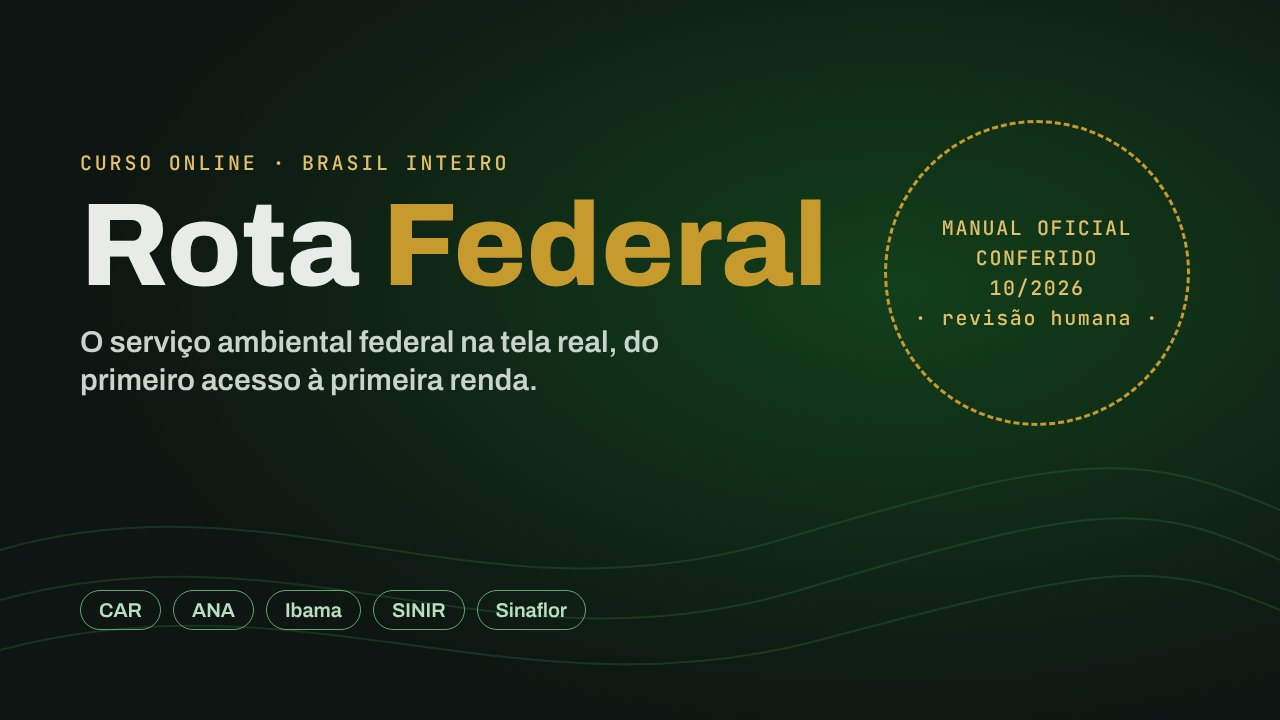
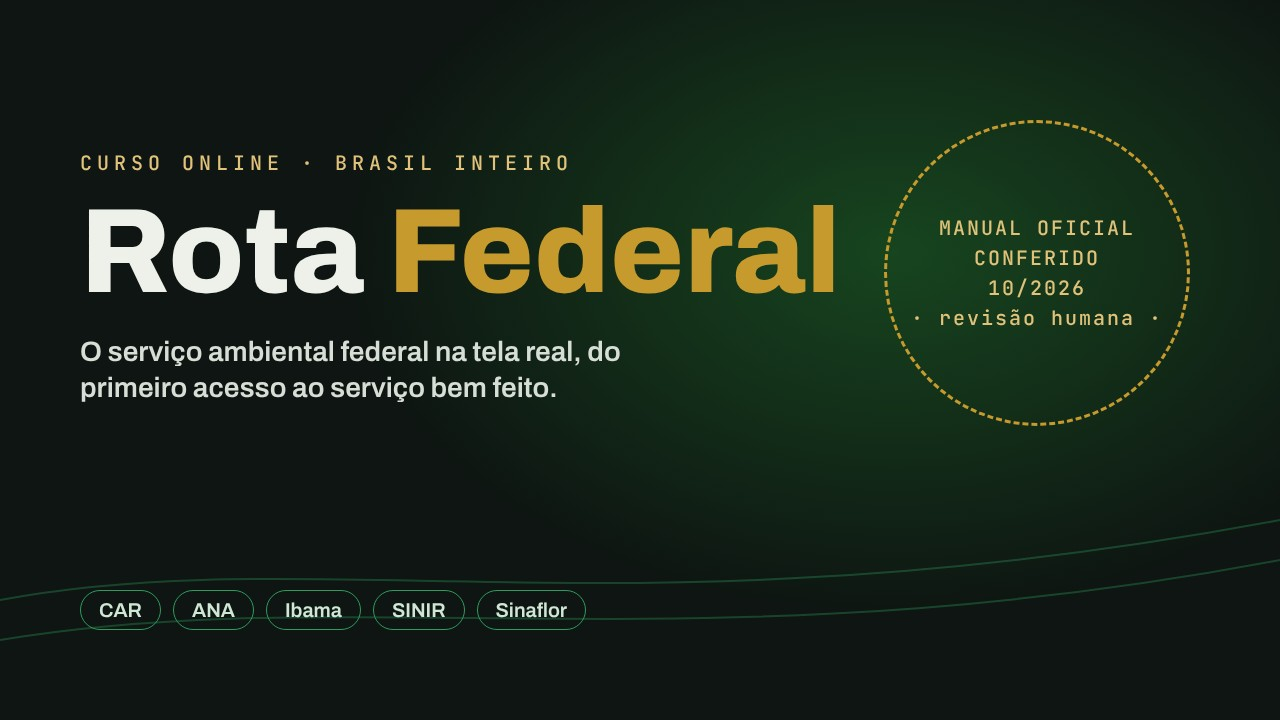
Curadoria do tom: sem vínculo de cargo nos textos e sem apelo de renda
- Sobre, Rota Ambiental e Rota Federal: "atua com meio ambiente em Minas Gerais desde 2014" no lugar de gestor de carreira, SEMAD-MG e FEAM; sai a seção de imprensa.
- Página inicial e páginas dos cursos: "gere renda" e "começar a ter renda" viram serviço feito com segurança; a trilha "Fazer render" vira "Atuar como consultor".
- Sem urgência de preço ("por tempo limitado").
- Capas novas da Rota Ambiental e da Rota Federal, sem "renda".

Claude-Session: https://claude.ai/code/session_011pCDnWDXmFgZjyX7zguf5X

diff --git a/sobre.html b/sobre.html
@@ -4,12 +4,12 @@
 <meta charset="utf-8">
 <meta name="viewport" content="width=device-width, initial-scale=1">
 <title>Sobre — Francisco de Assis, O Analista Ambiental</title>
-<meta name="description" content="Francisco de Assis da Silva Júnior: engenheiro florestal, gestor ambiental de carreira em Minas Gerais e autor de quatro livros. Biografia, imprensa, formação, livros e capacitações.">
+<meta name="description" content="Francisco de Assis da Silva Júnior: engenheiro florestal, profissional da área ambiental em Minas Gerais desde 2014 e autor de quatro livros. Biografia, formação, livros e capacitações.">
 <meta name="author" content="Francisco de Assis da Silva Júnior">
 <link rel="canonical" href="https://www.oanalistaambiental.com/sobre.html">
 <meta property="og:type" content="website">
 <meta property="og:title" content="Sobre — Francisco de Assis, O Analista Ambiental">
-<meta property="og:description" content="Francisco de Assis da Silva Júnior: engenheiro florestal, gestor ambiental de carreira em Minas Gerais e autor de quatro livros. Biografia, imprensa, formação, livros e capacitações.">
+<meta property="og:description" content="Francisco de Assis da Silva Júnior: engenheiro florestal, profissional da área ambiental em Minas Gerais desde 2014 e autor de quatro livros. Biografia, formação, livros e capacitações.">
 <meta property="og:url" content="https://www.oanalistaambiental.com/sobre.html">
 <meta property="og:image" content="https://www.oanalistaambiental.com/assets/hero-banner.jpg">
 <meta property="og:locale" content="pt_BR">
@@ -27,7 +27,7 @@
   "alternateName":"O Analista Ambiental",
   "url":"https://www.oanalistaambiental.com/sobre.html",
   "email":"contato@oanalistaambiental.com",
-  "jobTitle":"Engenheiro Florestal e Gestor Ambiental",
+  "jobTitle":"Engenheiro Florestal",
   "address":{"@type":"PostalAddress","addressLocality":"Belo Horizonte","addressRegion":"MG","addressCountry":"BR"},
   "sameAs":[
     "https://www.linkedin.com/in/oanalistaambiental",
@@ -92,17 +92,16 @@
     <p class="ref">Belo Horizonte &middot; Minas Gerais</p>
     <h1>Francisco de Assis, <em>O Analista Ambiental</em>.</h1>
     <p class="hero__lede">
-      Licenciamento, regularização e fiscalização explicados por quem analisa
-      processo, vai a campo e ensina.
+      Licenciamento e regularização ambiental explicados com calma e com a fonte na mão, por quem trabalha com meio ambiente em Minas Gerais, vai a campo e ensina.
     </p>
     <dl class="quadro quadro--3">
       <div>
-        <dt>Serviço público</dt>
-        <dd>2014<small>gestor ambiental de carreira na SEMAD-MG, credenciado para fiscalização</small></dd>
+        <dt>Experiência</dt>
+        <dd>2014<small>atuando com meio ambiente em Minas Gerais</small></dd>
       </div>
       <div>
         <dt>Campo</dt>
-        <dd>1.500+<small>perícias e vistorias, inclusive para o Ministério Público e o Judiciário</small></dd>
+        <dd>1.500+<small>perícias e vistorias de campo</small></dd>
       </div>
       <div>
         <dt>Autoria</dt>
@@ -115,7 +114,7 @@
 <section id="sobre">
   <div class="wrap stack">
     <p class="ref">Quem escreve</p>
-    <h2>Um analista que atravessou os dois lados do balcão.</h2>
+    <h2>Um profissional que gosta de explicar o caminho.</h2>
     <div class="prose">
       <p>
         Sou <strong>Francisco de Assis da Silva Júnior</strong> — engenheiro florestal formado
@@ -123,14 +122,12 @@
         onde pesquiso modelagem preditiva de desmatamento com inteligência artificial.
       </p>
       <p>
-        Desde 2014 sou <strong>gestor ambiental de carreira</strong> do sistema estadual de meio
-        ambiente de Minas Gerais — hoje na FEAM —, credenciado para fiscalização
-        ambiental: autos de infração, embargos, suspensão de atividades. Nesse caminho vieram mais
-        de 1.500 perícias e vistorias — várias delas a pedido do Ministério Público e do Poder
-        Judiciário — e centenas de processos de licenciamento analisados linha a linha.
+        Desde 2014 <strong>trabalho com meio ambiente em Minas Gerais</strong>: licenciamento,
+        regularização, flora, água e campo. Nesse caminho vieram mais de 1.500 perícias e vistorias
+        e centenas de processos de licenciamento estudados linha a linha.
       </p>
       <p>
-        Fora da mesa de análise: presido a Comissão de Fiscalização Ambiental do IDAM, o Instituto
+        Também presido a Comissão de Fiscalização Ambiental do IDAM, o Instituto
         de Direito Ambiental; sou pesquisador colaborador na UFVJM; e fui facilitador do Programa de
         Desenvolvimento de Lideranças Regionais na Fundação João Pinheiro.
       </p>
@@ -139,43 +136,6 @@
         não porque é complexa, mas porque quase ninguém se dá ao trabalho de explicar. É isso que
         eu faço aqui.
       </p>
-    </div>
-  </div>
-</section>
-
-<section id="imprensa" class="band on-dark">
-  <div class="wrap">
-    <p class="ref">Na imprensa</p>
-    <h2 style="margin-top:.9rem;max-width:20ch">Quando a pauta ambiental de Minas vira notícia.</h2>
-    <div class="quote">
-      <blockquote>“As florestas de Minas Gerais não estão sendo protegidas.”</blockquote>
-      <cite>Brasil de Fato &middot; janeiro de 2026</cite>
-    </div>
-    <div class="imprensa">
-      <a class="clip" href="https://www.brasildefato.com.br/2026/01/08/as-florestas-de-mg-nao-estao-sendo-protegidas-diz-gestor-ambiental-sobre-politica-de-zema/" target="_blank" rel="noopener">
-        <span class="clip__src">Brasil de Fato<b>08 jan 2026</b></span>
-        <span>
-          <h3>“As florestas de MG não estão sendo protegidas”, diz gestor ambiental sobre política de Zema</h3>
-          <p>Entrevista sobre desmatamento, queimadas, flexibilização do licenciamento e o efetivo técnico do sistema ambiental mineiro.</p>
-        </span>
-        <span class="clip__go">Ler &rarr;</span>
-      </a>
-      <a class="clip" href="https://www.otempo.com.br/cidades/2025/8/4/flexibilizacao-no-licenciamento-ambiental-em-mg-ameaca-cordilheira-do-espinhaco" target="_blank" rel="noopener">
-        <span class="clip__src">O Tempo<b>04 ago 2025</b></span>
-        <span>
-          <h3>Flexibilização no licenciamento ambiental em MG ameaça a Cordilheira do Espinhaço</h3>
-          <p>Análise sobre o licenciamento simplificado e o que muda quando um processo passa a ser avaliado por um único técnico.</p>
-        </span>
-        <span class="clip__go">Ler &rarr;</span>
-      </a>
-      <a class="clip" href="https://www.brasildefato.com.br/2026/06/03/semana-mundial-do-meio-ambiente-quem-paga-a-conta-da-crise-ambiental-em-minas-gerais/" target="_blank" rel="noopener">
-        <span class="clip__src">Brasil de Fato<b>03 jun 2026</b></span>
-        <span>
-          <h3>Semana mundial do meio ambiente: quem paga a conta da crise ambiental em Minas Gerais?</h3>
-          <p>Reportagem especial sobre emergência climática e política ambiental no estado.</p>
-        </span>
-        <span class="clip__go">Ler &rarr;</span>
-      </a>
     </div>
   </div>
 </section>
@@ -211,7 +171,7 @@
       <div>
         <h3>Atuação institucional</h3>
         <ul>
-          <li><b>SISEMA / FEAM</b> — gestor ambiental de carreira, credenciado para fiscalização desde 2014</li>
+          <li><b>Meio ambiente em Minas Gerais</b> — atuação profissional desde 2014</li>
           <li><b>IDAM</b> — presidente da Comissão de Fiscalização Ambiental</li>
           <li><b>UFVJM</b> — pesquisador colaborador</li>
         </ul>

diff --git a/rota-ambiental.html b/rota-ambiental.html
@@ -204,7 +204,7 @@
         <div class="rv-card"><h3>Ofereça o serviço certo</h3><p>Por formação (agrônomo, florestal, civil, geólogo, gestor): renovação, condicionante, PTRF, CAR, DAURH e outorga. Com mensagem-modelo educativa e regras de LGPD.</p></div>
       </div>
       <ul class="rv-lista">
-        <li>6 aulas curtas na Trilha 8, "Fazer render".</li>
+        <li>6 aulas curtas na Trilha 8, "Atuar como consultor".</li>
         <li>Kit bônus: links por município, planilha-modelo, 5 prompts de IA e o mapa formação × serviço.</li>
         <li>Atualização dos números todo mês na comunidade.</li>
       </ul>
@@ -220,9 +220,9 @@
   <section class="rv-sec rv-revela" id="trilhas">
     <div class="wrap stack">
       <p class="ref">As trilhas</p>
-      <h2>Dez trilhas, do primeiro acesso ao serviço que gera renda.</h2>
+      <h2>Dez trilhas, do primeiro acesso ao serviço bem feito.</h2>
       <div class="rv-grid">
-        <div class="rv-card rv-trilha"><img src="assets/rota/medalha_0.png" alt="" width="64" height="64"><div><h3>0 · Comece por aqui</h3><ul><li>Mapa dos serviços e da renda do consultor em MG</li><li>O celular como ferramenta de campo, com o app Chão Geo MG</li></ul></div></div>
+        <div class="rv-card rv-trilha"><img src="assets/rota/medalha_0.png" alt="" width="64" height="64"><div><h3>0 · Comece por aqui</h3><ul><li>Mapa dos serviços ambientais em MG e de quem pode fazer cada um</li><li>O celular como ferramenta de campo, com o app Chão Geo MG</li></ul></div></div>
         <div class="rv-card rv-trilha"><img src="assets/rota/medalha_1.png" alt="" width="64" height="64"><div><h3>1 · Órgãos e sistemas</h3><ul><li>Quem faz o quê no Sisema</li><li>Consultar decisões, pareceres e autos de infração</li><li>SEI: protocolo e acompanhamento</li></ul></div></div>
         <div class="rv-card rv-trilha"><img src="assets/rota/medalha_2.png" alt="" width="64" height="64"><div><h3>2 · Geo</h3><ul><li>KML, SHP e SIRGAS 2000: o que o órgão confere</li><li>Camadas do IDE-Sisema e critério locacional</li></ul></div></div>
         <div class="rv-card rv-trilha"><img src="assets/rota/medalha_3.png" alt="" width="64" height="64"><div><h3>3 · CAR</h3><ul><li>Inscrição, retificação e troca de titular</li><li>Responder à notificação da análise</li></ul></div></div>
@@ -230,7 +230,7 @@
         <div class="rv-card rv-trilha"><img src="assets/rota/medalha_5.png" alt="" width="64" height="64"><div><h3>5 · Água <span class="rv-tag rv-tag--pronta">1ª aula gravada</span></h3><ul><li>Pedido de outorga no SOUT, com casos reais</li><li>Uso insignificante, poço e barramento</li></ul></div></div>
         <div class="rv-card rv-trilha"><img src="assets/rota/medalha_6.png" alt="" width="64" height="64"><div><h3>6 · Flora</h3><ul><li>Árvores isoladas, taxa e reposição</li><li>CAP/DAP e volumetria, com planilha</li><li>Sinaflor, DOF e supressão</li></ul></div></div>
         <div class="rv-card rv-trilha"><img src="assets/rota/medalha_7.png" alt="" width="64" height="64"><div><h3>7 · Direito ambiental aplicado</h3><ul><li>Defesa administrativa e recurso</li><li>Responsabilidade penal, civil e administrativa</li></ul></div></div>
-        <div class="rv-card rv-trilha"><img src="assets/rota/medalha_8.png" alt="" width="64" height="64"><div><h3>8 · Fazer render</h3><ul><li>Quanto cobrar, proposta e contrato</li><li>Achar cliente e serviço recorrente</li><li>Radar de serviços: certidões, outorgas, licenças e Reserva Legal na sua região <span class="rv-tag rv-tag--pronta">novo</span></li></ul></div></div>
+        <div class="rv-card rv-trilha"><img src="assets/rota/medalha_8.png" alt="" width="64" height="64"><div><h3>8 · Atuar como consultor</h3><ul><li>Proposta, contrato e preço justo</li><li>Onde o seu trabalho é necessário</li><li>Radar de serviços: certidões, outorgas, licenças e Reserva Legal na sua região <span class="rv-tag rv-tag--pronta">novo</span></li></ul></div></div>
         <div class="rv-card rv-trilha"><img src="assets/rota/medalha_9.png" alt="" width="64" height="64"><div><h3>9 · Federal</h3><ul><li>CTF/AIDA, CTF/APP, RAPP e TCFA no Ibama</li><li>ANA e MTR no SINIR: serve para todo o Brasil</li></ul></div></div>
       </div>
       <p style="color:var(--text-faint);font-size:.95rem">Grade em produção: as aulas entram trilha por trilha, e a ordem pode mudar conforme as normas e os sistemas.</p>
@@ -278,10 +278,10 @@
         <div class="stack-sm">
           <h2>Francisco de Assis · O Analista Ambiental</h2>
           <p>Engenheiro florestal (UESB), mestre em Tecnologia, Ambiente e Sociedade (UFVJM) e doutorando na UFMG, onde pesquisa modelagem preditiva de desmatamento com inteligência artificial.</p>
-          <p>Gestor ambiental de carreira do sistema estadual de meio ambiente de Minas Gerais desde 2014, com centenas de processos de licenciamento analisados linha a linha e mais de 1.500 perícias e vistorias. Preside a Comissão de Fiscalização Ambiental do IDAM (Instituto de Direito Ambiental).</p>
+          <p>Atua com meio ambiente em Minas Gerais desde 2014, com centenas de processos de licenciamento estudados linha a linha e mais de 1.500 perícias e vistorias. Preside a Comissão de Fiscalização Ambiental do IDAM (Instituto de Direito Ambiental).</p>
           <p>O Analista Ambiental nasceu de uma percepção simples: a área ambiental é difícil não porque é complexa, mas porque quase ninguém se dá ao trabalho de explicar. A Rota Ambiental é esse trabalho, aula por aula. <a href="sobre.html">Trajetória completa</a>.</p>
           <div class="rv-num">
-            <div><b data-conta="12" data-suf=" anos">12 anos</b><span>no sistema estadual de MG (desde 2014)</span></div>
+            <div><b data-conta="12" data-suf=" anos">12 anos</b><span>na área ambiental em MG (desde 2014)</span></div>
             <div><b data-conta="1500" data-mais="1">1.500+</b><span>perícias e vistorias</span></div>
             <div><b data-conta="10">10</b><span>trilhas no curso</span></div>
             <div><b data-conta="40" data-suf=" h">40 h</b><span>de certificado</span></div>
@@ -332,7 +332,7 @@
   <section class="rv-sec rv-revela" id="lista">
     <div class="wrap stack-sm">
       <p class="ref">Lista de espera</p>
-      <h2>Receba a data de abertura e o valor de fundador.</h2>
+      <h2>Entre na lista e receba o aviso da abertura.</h2>
       <div class="lista" data-lista data-padrao="rota"></div>
     </div>
   </section>

diff --git a/rota-federal.html b/rota-federal.html
@@ -151,7 +151,7 @@
 .rf-de{text-decoration:line-through;color:#8FA195;font-size:.95rem;margin-right:.4rem}
 </style>
 
-<div class="rv-aviso" role="note">TURMA FUNDADORA · Aulas novas toda semana · Preço de fundador por tempo limitado</div>
+<div class="rv-aviso" role="note">TURMA FUNDADORA · Aulas novas toda semana · Conteúdo revisado e com fonte em cada regra</div>
 
 <section class="rv-hero">
   <div class="wrap">
@@ -159,9 +159,9 @@
       <p class="ref">Curso online · Brasil inteiro</p>
       <h1>Rota <span>Federal</span></h1>
       <p class="rv-sub">O serviço ambiental federal na tela real dos sistemas: CAR, outorga na ANA, Ibama, SINIR e Sinaflor. Vale em qualquer estado.</p>
-      <p class="rv-sub" style="font-size:1.02rem">Para o profissional da área ambiental que quer aprender a fazer no sistema e começar a ter renda com isso.</p>
+      <p class="rv-sub" style="font-size:1.02rem">Para o profissional da área ambiental que quer fazer o serviço federal com segurança, do jeito que o sistema pede.</p>
       <div class="rv-ctas">
-        <a class="btn rv-btn-ouro" href="#oferta" data-checkout>Garantir o preço de fundador</a>
+        <a class="btn rv-btn-ouro" href="#oferta" data-checkout>Ver as ofertas</a>
         <a class="btn btn--ghost" href="#modulos">Ver os módulos</a>
       </div>
     </div>
@@ -211,7 +211,7 @@
         <div class="rv-card"><h3>4 · Flora federal</h3><ul class="rv-lista"><li>Sinaflor e DOF: emissor, receptor e saldo</li><li>Registro de motosserra</li></ul></div>
         <div class="rv-card"><h3>5 · Resíduos no SINIR</h3><ul class="rv-lista"><li>MTR, CDF e DMR</li><li>O login gov.br novo e os perfis</li></ul></div>
         <div class="rv-card"><h3>6 · Licenciamento federal</h3><ul class="rv-lista"><li>Quando é do Ibama e como acompanhar</li><li>O que mudou com a Lei Geral do Licenciamento (Lei 15.190/2025)</li></ul></div>
-        <div class="rv-card"><h3>7 · Fazer render</h3><ul class="rv-lista"><li>Quanto cobrar, proposta e contrato</li><li>Achar cliente com dado público e o calendário de obrigações federais</li><li>Prompts de IA conferidos para cada serviço</li></ul></div>
+        <div class="rv-card"><h3>7 · Atuar como consultor</h3><ul class="rv-lista"><li>Proposta, contrato e preço justo</li><li>Dado público para ver onde o serviço é necessário e o calendário de obrigações federais</li><li>Prompts de IA conferidos para cada serviço</li></ul></div>
       </div>
       <p style="color:var(--text-faint);font-size:.95rem">Turma fundadora: as aulas entram toda semana, módulo por módulo. A ordem pode mudar quando um sistema ou uma norma mudar. Quem entra agora recebe tudo o que for lançado.</p>
     </div>
@@ -224,7 +224,7 @@
         <div class="rv-card"><h3>É para você se…</h3><ul class="rv-lista">
           <li>é consultor, engenheiro, biólogo, geógrafo, agrônomo, gestor ou técnico da área ambiental, em qualquer estado;</li>
           <li>trava nos sistemas federais e nas siglas e quer fazer o serviço com segurança;</li>
-          <li>quer começar a ter renda com cadastros e pedidos que todo cliente precisa;</li>
+          <li>quer oferecer, com segurança, os cadastros e pedidos de que todo cliente precisa;</li>
           <li>já atua e quer se atualizar com as telas e as normas de 2026.</li></ul></div>
         <div class="rv-card"><h3>Não é para você se…</h3><ul class="rv-lista">
           <li>procura atalho para "passar" pedido sem cumprir a norma;</li>
@@ -267,7 +267,7 @@
         <div class="rv-foto"><img src="assets/avatar.jpg" alt="Francisco de Assis, O Analista Ambiental" width="700" height="700" loading="lazy"></div>
         <div class="stack-sm">
           <h2>Francisco de Assis · O Analista Ambiental</h2>
-          <p>Engenheiro florestal (UESB), mestre em Tecnologia, Ambiente e Sociedade (UFVJM) e doutorando na UFMG, onde pesquisa modelagem preditiva de desmatamento com inteligência artificial. Gestor ambiental de carreira desde 2014, com mais de 1.500 perícias e vistorias e quatro livros publicados.</p>
+          <p>Engenheiro florestal (UESB), mestre em Tecnologia, Ambiente e Sociedade (UFVJM) e doutorando na UFMG, onde pesquisa modelagem preditiva de desmatamento com inteligência artificial. Atua com meio ambiente em Minas Gerais desde 2014, com mais de 1.500 perícias e vistorias e quatro livros publicados.</p>
           <p><b>Todo o curso é revisado por ele</b>, com uma equipe de profissionais da área ambiental e professores convidados. As aulas são atualizadas sempre que um sistema ou uma norma muda.</p>
           <p style="color:var(--text-soft);font-size:1rem">Transparência: o curso é produzido com inteligência artificial (pesquisa, roteiro, narração e telas animadas), seguindo o padrão-ouro de produção: manual oficial conferido, fonte em cada regra, caso real público e revisão humana de todo o conteúdo. O curso é independente e não representa nenhum órgão público.</p>
           <div class="rv-num">
@@ -313,7 +313,7 @@
   <section class="rv-sec rv-revela" id="lista">
     <div class="wrap stack-sm">
       <p class="ref">Lista da turma fundadora</p>
-      <h2>Receba o link de compra com o preço de fundador.</h2>
+      <h2>Entre na lista e receba o aviso quando a turma abrir.</h2>
       <div class="lista" data-lista data-padrao="federal" data-opcoes="federal,rota"></div>
     </div>
   </section>

diff --git a/index.html b/index.html
@@ -4,11 +4,11 @@
 <meta charset="utf-8">
 <meta name="viewport" content="width=device-width, initial-scale=1">
 <title>O Analista Ambiental — A Rota Ambiental 2.0, Radar do Diário Oficial e ferramentas</title>
-<meta name="description" content="Faça o serviço ambiental em Minas Gerais e gere renda: curso A Rota Ambiental 2.0, Radar do Diário Oficial de MG e o app Chão Geo MG, por Francisco de Assis, o Analista Ambiental.">
+<meta name="description" content="O serviço ambiental em Minas Gerais, feito com segurança e na tela real dos sistemas: curso A Rota Ambiental 2.0, Radar do Diário Oficial de MG e o app Chão Geo MG, por Francisco de Assis, o Analista Ambiental.">
 <meta name="author" content="Francisco de Assis da Silva Júnior">
 <link rel="canonical" href="https://www.oanalistaambiental.com/">
 <meta property="og:type" content="website">
-<meta property="og:title" content="O Analista Ambiental — Faça o serviço ambiental em Minas Gerais e gere renda">
+<meta property="og:title" content="O Analista Ambiental — O serviço ambiental em Minas Gerais, feito com segurança">
 <meta property="og:description" content="A Rota Ambiental 2.0, o Radar do Diário Oficial de MG e ferramentas gratuitas para o consultor ambiental.">
 <meta property="og:url" content="https://www.oanalistaambiental.com/">
 <meta property="og:image" content="https://www.oanalistaambiental.com/assets/hero-banner.jpg">
@@ -27,7 +27,7 @@
   "alternateName":"O Analista Ambiental",
   "url":"https://www.oanalistaambiental.com/",
   "email":"contato@oanalistaambiental.com",
-  "jobTitle":"Engenheiro Florestal e Gestor Ambiental",
+  "jobTitle":"Engenheiro Florestal",
   "address":{"@type":"PostalAddress","addressLocality":"Belo Horizonte","addressRegion":"MG","addressCountry":"BR"},
   "sameAs":[
     "https://www.linkedin.com/in/oanalistaambiental",
@@ -93,7 +93,7 @@
     <div class="hero__grid">
       <div>
         <p class="ref">A Rota Ambiental 2.0 &middot; curso online</p>
-        <h1>Faça o serviço ambiental em Minas Gerais e <em>gere renda</em>.</h1>
+        <h1>O serviço ambiental em Minas Gerais, <em>feito com segurança</em>.</h1>
         <p class="hero__lede">
           Do sistema à portaria: o passo a passo para licenciar, outorgar, regularizar e
           defender, com a tela real dos sistemas, casos reais e o manual oficial conferido.
@@ -145,7 +145,7 @@
         </ul>
       </article>
     </div>
-    <p class="agendas-base"><b>Base e carreira:</b> 0 · Comece por aqui &middot; 1 · Órgãos e sistemas &middot; 2 · Geo &middot; 8 · Fazer render &middot; 9 · Federal (Ibama, ANA e SINIR).</p>
+    <p class="agendas-base"><b>Base e carreira:</b> 0 · Comece por aqui &middot; 1 · Órgãos e sistemas &middot; 2 · Geo &middot; 8 · Atuar como consultor &middot; 9 · Federal (Ibama, ANA e SINIR).</p>
     <p style="margin-top:1.4rem"><a class="btn btn--ghost" href="rota-ambiental.html#trilhas">Ver as dez trilhas &rarr;</a></p>
   </div>
 </section>
